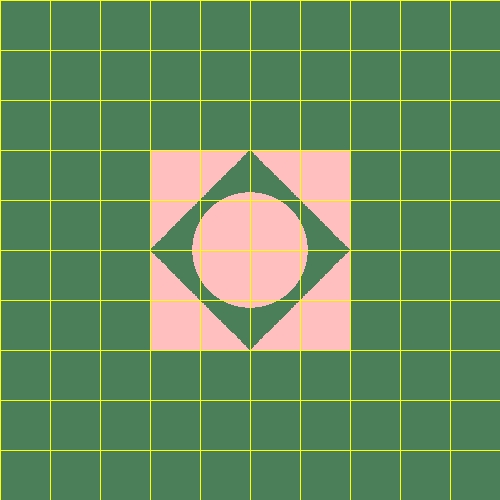
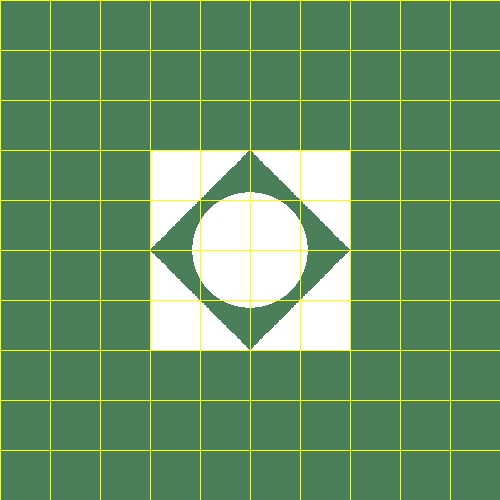
targuil 6

Changed region(s): [[0.3, 0.3, 0.72, 0.72]]

diff --git a/src/unittests/elements/LightsTests.java b/src/unittests/elements/LightsTests.java
@@ -47,7 +47,7 @@ public class LightsTests {
         scene.setCamera(new Camera(new Point3D(0, 0, -1000), new Vector(0, 0, 1), new Vector(0, -1, 0)));
         scene.setDistance(1000);
         scene.setBackground(Color.BLACK);
-        scene.setAmbientLight(new AmbientLight(Color.BLACK, 0));
+        scene.setAmbientLight(new AmbientLight(new Color(255,255,255), 1));
 
         scene.addGeometries(
                 new Sphere(new Color(java.awt.Color.BLUE), new Material(0.5, 0.5, 100), 50, new Point3D(0, 0, 50)));
@@ -78,7 +78,7 @@ public class LightsTests {
         scene.addLights(
                 new SpotLight(new Color(500, 300, 0),
                 new Point3D(-50, 50, -50),
-                1, 0.00001, 0.00000001,new Vector(1, -1, 2))
+                2, 0.001, 0.000001,new Vector(1, -1, 2))
         );
 
         ImageWriter imageWriter = new ImageWriter("sphereSpot", 150, 150, 500, 500);
@@ -176,7 +176,7 @@ public class LightsTests {
         scene.addLights(
                 new SpotLight(new Color(500, 250, 250),
                         new Point3D(10, 10, 130),
-                        1, 0.0001, 0.000005,new Vector(-2, 2, 1)));
+                        2, 0.001, 0.000001,new Vector(-2, 2, 1)));
 
         ImageWriter imageWriter = new ImageWriter("trianglesSpot", 200, 200, 500, 500);
         Render render = new Render(imageWriter, scene);

diff --git a/src/unittests/renderer/RenderTests.java b/src/unittests/renderer/RenderTests.java
@@ -26,12 +26,12 @@ public class RenderTests {
         scene.setCamera(new Camera(Point3D.ZERO, new Vector(0, 0, 1), new Vector(0, -1, 0)));
         scene.setDistance(100);
         scene.setBackground(new Color(75, 127, 90));
-        scene.setAmbientLight(new AmbientLight(new Color(255, 191, 191), 1));
+        scene.setAmbientLight(new AmbientLight(new Color(255, 255, 255), 1));
 
         scene.addGeometries(new Sphere(50, new Point3D(0, 0, 100)));
 
         scene.addGeometries(
-                new Triangle(new Point3D(100, 0, 100), new Point3D(0, 100, 100), new Point3D(100, 100, 100)),
+                new Triangle(new Color(255,0,0),new Material(0,0,0),new Point3D(100, 0, 100), new Point3D(0, 100, 100), new Point3D(100, 100, 100)),
                 new Triangle(new Point3D(100, 0, 100), new Point3D(0, -100, 100), new Point3D(100, -100, 100)),
                 new Triangle(new Point3D(-100, 0, 100), new Point3D(0, 100, 100), new Point3D(-100, 100, 100)),
                 new Triangle(new Point3D(-100, 0, 100), new Point3D(0, -100, 100), new Point3D(-100, -100, 100)));

diff --git a/src/elements/SpotLight.java b/src/elements/SpotLight.java
@@ -12,7 +12,9 @@ import primitives.Vector;
 public class SpotLight extends PointLight {
 
 
-     protected Vector _direction;
+
+
+    protected Vector _direction;
 
     /**
      * Initialize the vector of direction of the spot light
@@ -37,18 +39,18 @@ public class SpotLight extends PointLight {
     @Override
     public Color getIntensity(Point3D p) {
 
-        double dSquared = p.distanceSquared(_position);
-        double d = p.distance(_position);
-
         Vector vector;
         if(p.subtract(_position).normalized() == null)
             vector = new Vector(_direction);
         else
             vector = p.subtract(_position).normalized();
 
-        return (_intensity.scale(Math.max(0,_direction.dotProduct(vector)))
-                .reduce(_kC + _kL * d + _kQ * dSquared));
+
+        return super.getIntensity(p).scale(Math.max(0,_direction.dotProduct(vector)));
 
     }
+
+
+
 
 }

diff --git a/src/primitives/Point3D.java b/src/primitives/Point3D.java
@@ -109,11 +109,10 @@ public class Point3D  {
         return Math.sqrt(distanceSquared(point));
     }
 
-    public double distanceSquared(Point3D other)
-    {
-        return ( (other._x._coord - this._x._coord) * (other._x._coord - this._x._coord) +
-                (other._y._coord - this._y._coord) * (other._y._coord - this._y._coord) +
-                (other._z._coord - this._z._coord) * (other._z._coord - this._z._coord));
+    public double distanceSquared (Point3D p){
+        return (this._x._coord - p._x._coord) * (this._x._coord - p._x._coord)
+                + (this._y._coord - p._y._coord) * (this._y._coord - p._y._coord)
+                + (this._z._coord - p._z._coord) * (this._z._coord - p._z._coord);
     }
 }
 

diff --git a/src/elements/DirectionalLight.java b/src/elements/DirectionalLight.java
@@ -11,7 +11,7 @@ import primitives.Vector;
  */
 public class DirectionalLight extends Light implements LightSource{
 
-    private Vector _direction; //the direction of th light
+    private Vector _direction; //the direction of the light, the distance doesnt matter
 
 
    /**
